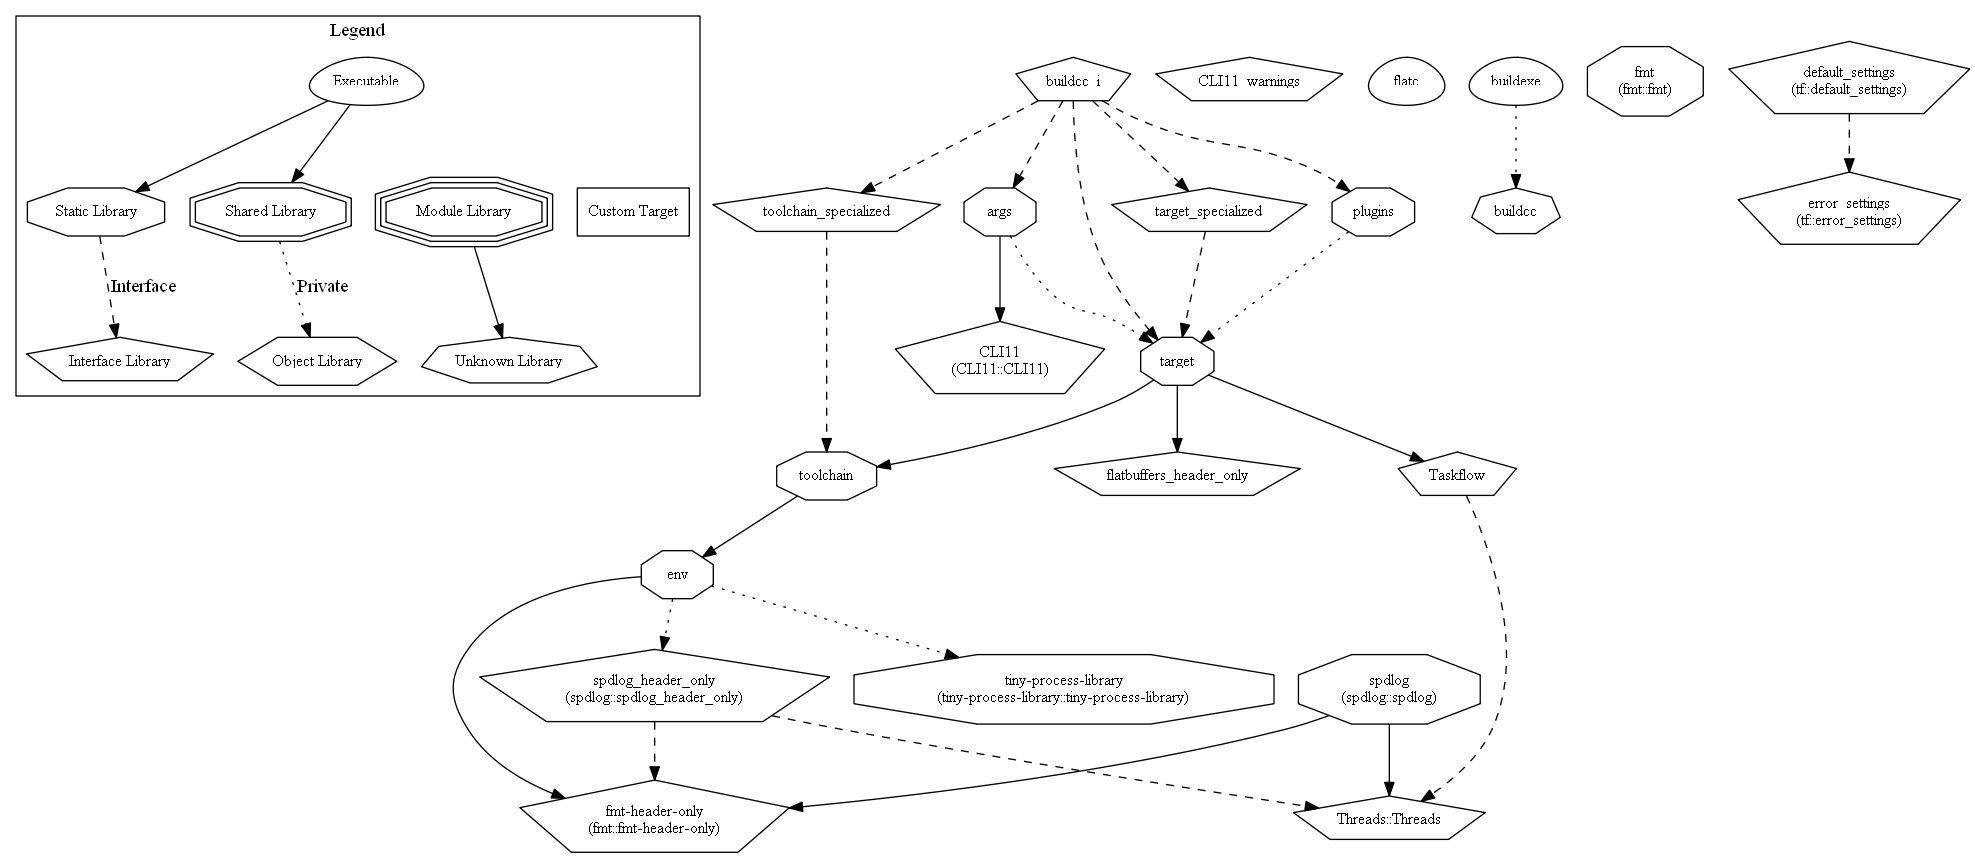
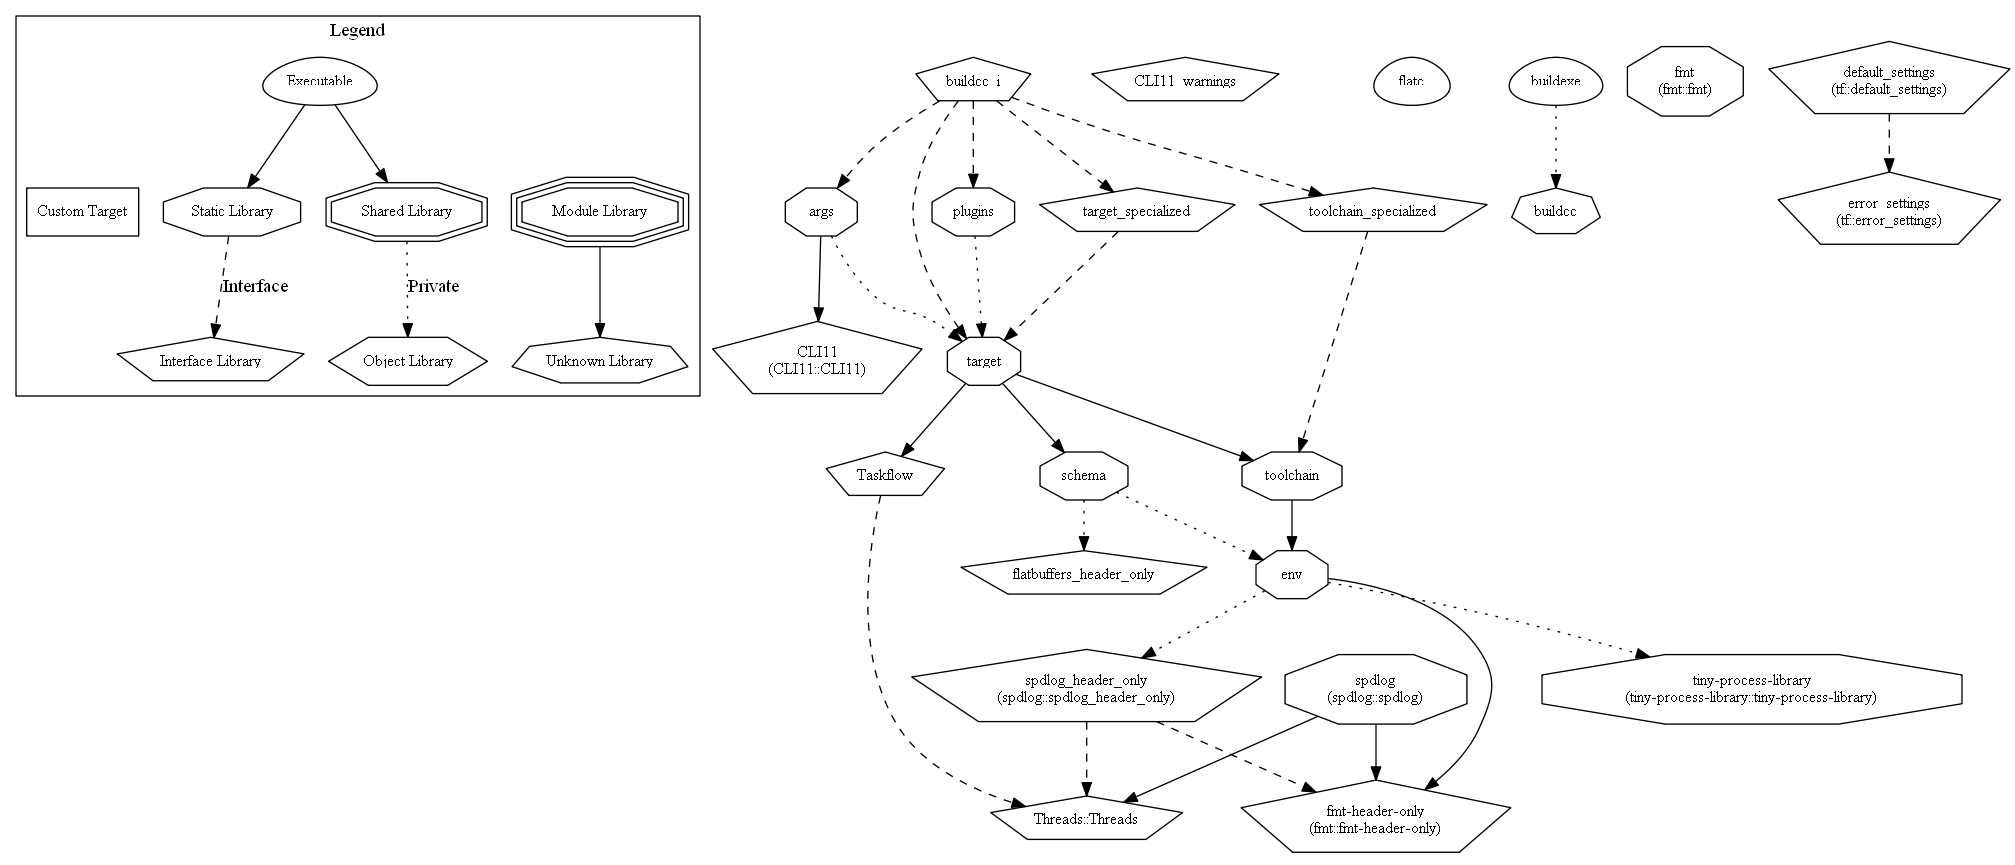
Serialization common (#193)

diff --git a/bootstrap/src/build_buildcc.cpp b/bootstrap/src/build_buildcc.cpp
@@ -53,6 +53,13 @@ void buildcc_cb(BaseTarget &target, const BaseGenerator &schema_gen,
   target.AddIncludeDir("lib/env/include");
   target.GlobHeaders("lib/env/include/env");
 
+  // SCHEMA
+  target.GlobSources("schema/src");
+  target.AddIncludeDir("schema/include");
+  target.GlobHeaders("schema/include/schema");
+  target.GlobHeaders("schema/include/schema/interface");
+  target.GlobHeaders("schema/include/schema/private");
+
   // TOOLCHAIN
   target.GlobSources("lib/toolchain/src/api");
   target.AddIncludeDir("lib/toolchain/include");
@@ -72,8 +79,6 @@ void buildcc_cb(BaseTarget &target, const BaseGenerator &schema_gen,
   target.GlobHeaders("lib/target/include/target/common");
   target.GlobHeaders("lib/target/include/target/friend");
   target.GlobHeaders("lib/target/include/target/interface");
-  target.GlobHeaders("lib/target/include/target/private");
-  target.GlobHeaders("lib/target/include/target/serialization");
 
   // ARGS
   target.GlobSources("lib/args/src");

diff --git a/buildcc/schema/include/schema/target_serialization.h b/buildcc/schema/include/schema/target_serialization.h
@@ -14,15 +14,15 @@
  * limitations under the License.
  */
 
-#ifndef TARGET_SERIALIZATION_TARGET_SERIALIZATION_H_
-#define TARGET_SERIALIZATION_TARGET_SERIALIZATION_H_
-
-#include "target/interface/serialization_interface.h"
+#ifndef SCHEMA_TARGET_SERIALIZATION_H_
+#define SCHEMA_TARGET_SERIALIZATION_H_
 
 #include <mutex>
 
-#include "target/common/path.h"
-#include "target/common/target_type.h"
+#include "schema/path.h"
+#include "schema/target_type.h"
+
+#include "schema/interface/serialization_interface.h"
 
 namespace buildcc::internal {
 

diff --git a/buildcc/schema/include/schema/generator_serialization.h b/buildcc/schema/include/schema/generator_serialization.h
@@ -14,16 +14,16 @@
  * limitations under the License.
  */
 
-#ifndef TARGET_SERIALIZATION_GENERATOR_SERIALIZATION_H_
-#define TARGET_SERIALIZATION_GENERATOR_SERIALIZATION_H_
-
-#include "target/interface/serialization_interface.h"
+#ifndef SCHEMA_GENERATOR_SERIALIZATION_H_
+#define SCHEMA_GENERATOR_SERIALIZATION_H_
 
 #include <string>
 #include <unordered_set>
 #include <vector>
 
-#include "target/common/path.h"
+#include "schema/path.h"
+
+#include "schema/interface/serialization_interface.h"
 
 namespace buildcc::internal {
 

diff --git a/buildcc/lib/target/include/target/target.h b/buildcc/lib/target/include/target/target.h
@@ -35,7 +35,7 @@
 #include "target/target_info.h"
 
 // Common
-#include "target/common/target_type.h"
+#include "schema/target_type.h"
 
 // Friend
 #include "target/friend/compile_object.h"
@@ -43,8 +43,8 @@
 #include "target/friend/link_target.h"
 
 // Internal
-#include "target/common/path.h"
-#include "target/serialization/target_serialization.h"
+#include "schema/path.h"
+#include "schema/target_serialization.h"
 
 // Env
 #include "env/env.h"

diff --git a/buildcc/schema/include/schema/interface/serialization_interface.h b/buildcc/schema/include/schema/interface/serialization_interface.h
@@ -14,15 +14,15 @@
  * limitations under the License.
  */
 
-#ifndef TARGET_INTERFACE_SERIALIZATION_INTERFACE_H_
-#define TARGET_INTERFACE_SERIALIZATION_INTERFACE_H_
+#ifndef SCHEMA_INTERFACE_SERIALIZATION_INTERFACE_H_
+#define SCHEMA_INTERFACE_SERIALIZATION_INTERFACE_H_
 
 #include <filesystem>
 
 #include "env/assert_fatal.h"
 #include "env/util.h"
 
-#include "target/common/path.h"
+#include "schema/path.h"
 
 namespace fs = std::filesystem;
 

diff --git a/buildcc/schema/src/generator_serialization.cpp b/buildcc/schema/src/generator_serialization.cpp
@@ -14,13 +14,13 @@
  * limitations under the License.
  */
 
-#include "target/serialization/generator_serialization.h"
+#include "schema/generator_serialization.h"
 
 // Third party
 #include "flatbuffers/flatbuffers.h"
 
 // Private
-#include "target/private/schema_util.h"
+#include "schema/private/schema_util.h"
 
 // Schema generated
 #include "generator_generated.h"

diff --git a/buildcc/schema/include/schema/private/schema_util.h b/buildcc/schema/include/schema/private/schema_util.h
@@ -14,14 +14,14 @@
  * limitations under the License.
  */
 
-#ifndef TARGET_PRIVATE_SCHEMA_UTIL_H_
-#define TARGET_PRIVATE_SCHEMA_UTIL_H_
+#ifndef SCHEMA_PRIVATE_SCHEMA_UTIL_H_
+#define SCHEMA_PRIVATE_SCHEMA_UTIL_H_
 
 #include "path_generated.h"
 
 #include <algorithm>
 
-#include "target/common/path.h"
+#include "schema/path.h"
 
 namespace fbs = schema::internal;
 

diff --git a/buildcc/schema/src/target_serialization.cpp b/buildcc/schema/src/target_serialization.cpp
@@ -14,13 +14,13 @@
  * limitations under the License.
  */
 
-#include "target/serialization/target_serialization.h"
+#include "schema/target_serialization.h"
 
 // Third party
 #include "flatbuffers/flatbuffers.h"
 
 // Private
-#include "target/private/schema_util.h"
+#include "schema/private/schema_util.h"
 
 // Schema generated
 #include "target_generated.h"

diff --git a/buildcc/lib/target/include/target/generator.h b/buildcc/lib/target/include/target/generator.h
@@ -32,9 +32,9 @@
 
 #include "target/interface/builder_interface.h"
 
-#include "target/serialization/generator_serialization.h"
+#include "schema/generator_serialization.h"
+#include "schema/path.h"
 
-#include "target/common/path.h"
 #include "target/common/target_env.h"
 
 namespace buildcc {

diff --git a/buildcc/lib/target/test/target/test_builder_interface.cpp b/buildcc/lib/target/test/target/test_builder_interface.cpp
@@ -1,6 +1,6 @@
 #include "target/interface/builder_interface.h"
 
-#include "target/common/path.h"
+#include "schema/path.h"
 
 // NOTE, Make sure all these includes are AFTER the system and header includes
 #include "CppUTest/CommandLineTestRunner.h"

diff --git a/buildcc/lib/target/test/target/test_serialization_interface.cpp b/buildcc/lib/target/test/target/test_serialization_interface.cpp
@@ -1,4 +1,4 @@
-#include "target/interface/serialization_interface.h"
+#include "schema/interface/serialization_interface.h"
 
 // NOTE, Make sure all these includes are AFTER the system and header includes
 #include "CppUTest/CommandLineTestRunner.h"

diff --git a/buildcc/lib/target/include/target/api/target_info_getter.h b/buildcc/lib/target/include/target/api/target_info_getter.h
@@ -17,7 +17,7 @@
 #ifndef TARGET_API_TARGET_INFO_GETTER_H_
 #define TARGET_API_TARGET_INFO_GETTER_H_
 
-#include "target/common/path.h"
+#include "schema/path.h"
 
 #include "target/common/target_config.h"
 #include "target/common/target_state.h"
